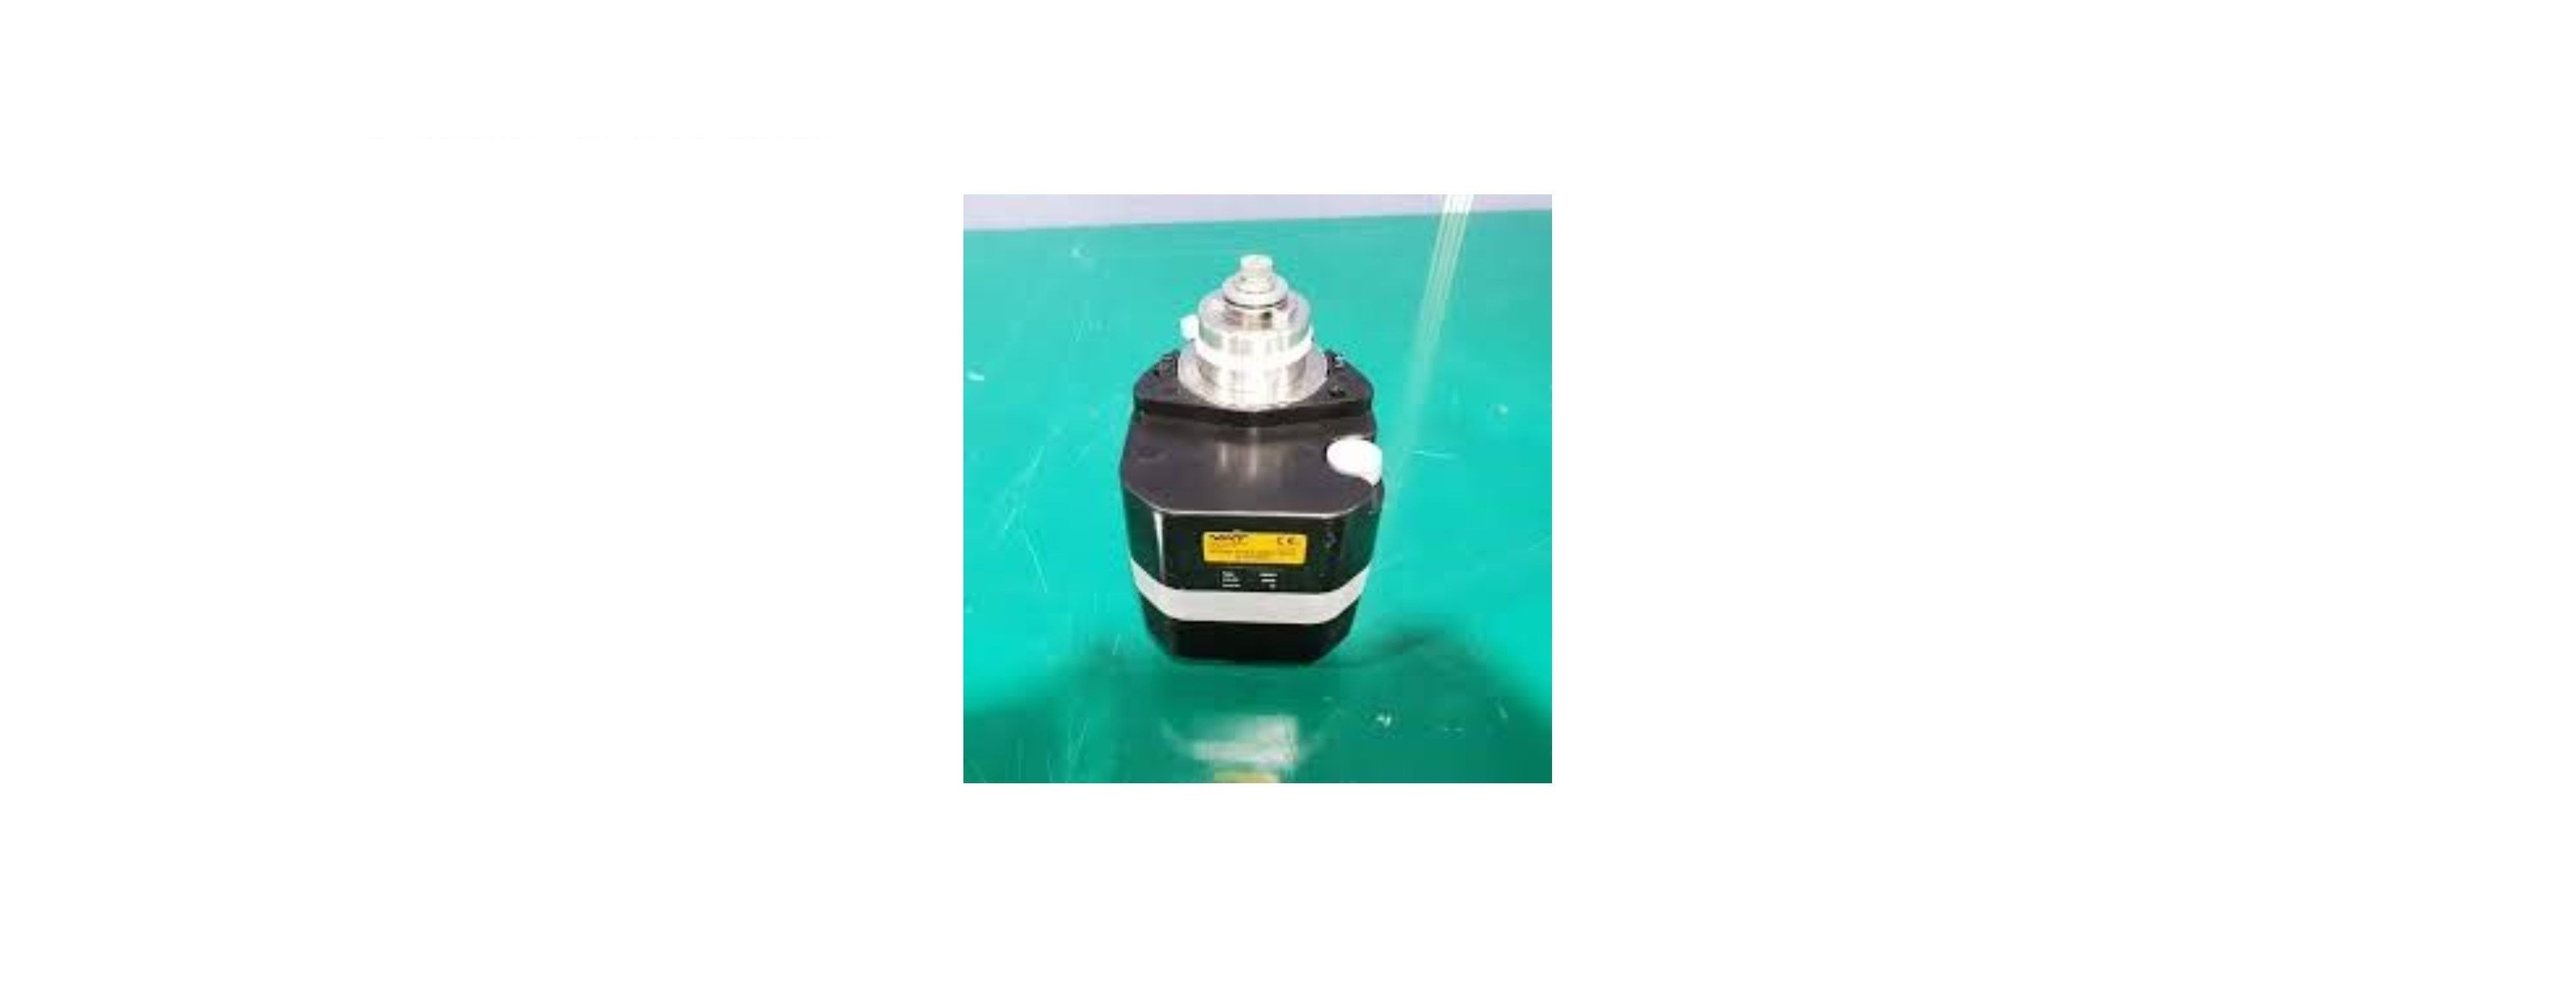
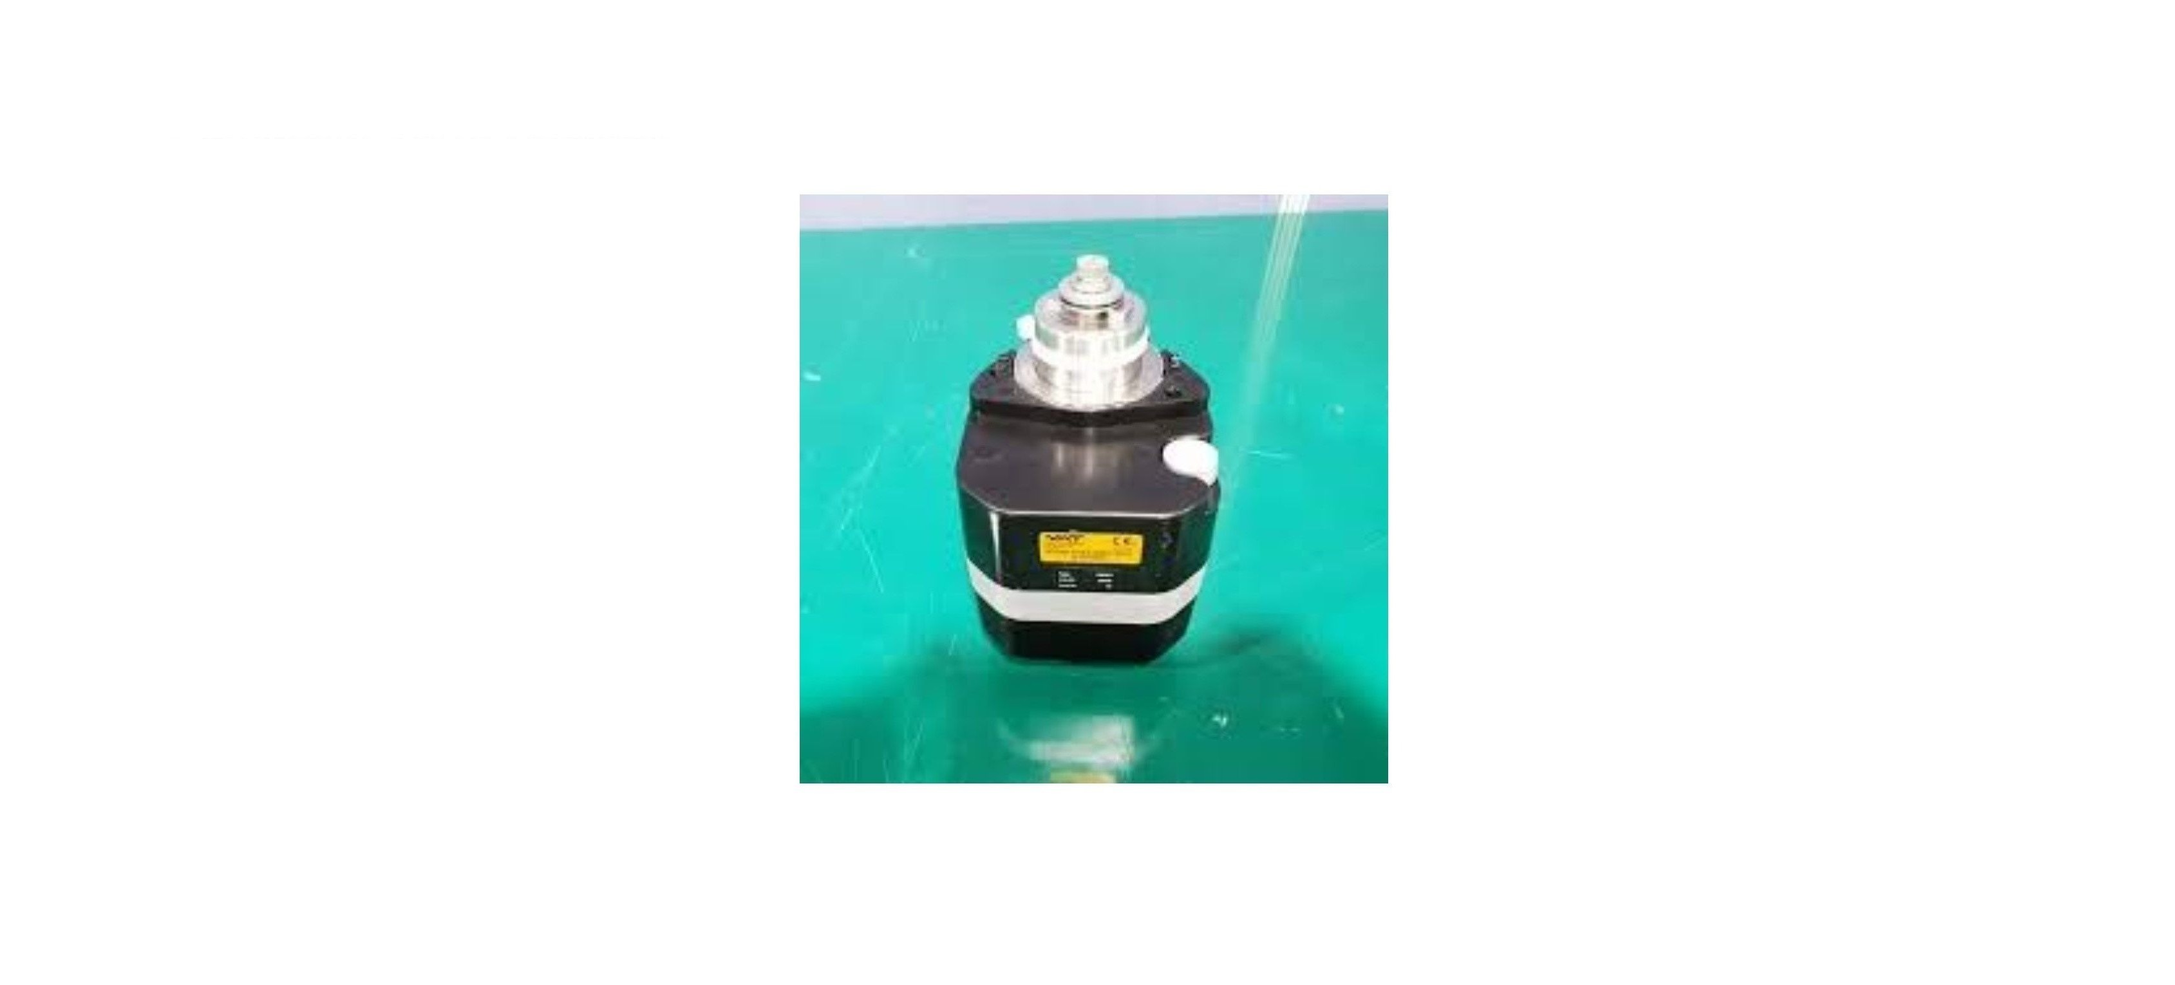
responsive navbar and pictures

Changed region(s): [[0.3419, 0.1843, 0.6528, 0.7987]]

diff --git a/repairBusiness.html b/repairBusiness.html
@@ -134,13 +134,13 @@
 			  <div class="parent-container2">
 				<li>
 					  <a class="abc" href="gate1.jpg" title="VAT 12148 GATE VALVE">Gate Valves</a>
-					  <a class="gate" href="gate2.jpg" title="VAT UHV GATE VALVE "></a>
-					  <a class="gate" href="gate3.jpg" title="VAT SERIES 108 UHV GATE VALVE"></a>
-					  <a class="gate" href="gate4_5.jpg" title="VAT SERIES 08 GATE VALVE"></a>
-					  <a class="gate" href="gate6.jpg" title="VAT SERIES 15028 GATE VALVE"></a>
-					  <a class="gate" href="gate7_8.jpg" title="VAT SERIES 64 GATE VALVE"></a>
-					  <a class="gate" href="gate9_10.jpg" title="VAT SERIES 65148 GATE VALVE"></a>
-					  <a class="gate" href="gate11.jpg" title="SMC L MOTION GATE VALVE"></a>
+					  <a class="abc" href="gate2.jpg" title="VAT UHV GATE VALVE "></a>
+					  <a class="abc" href="gate3.jpg" title="VAT SERIES 108 UHV GATE VALVE"></a>
+					  <a class="abc" href="gate4_5.jpg" title="VAT SERIES 08 GATE VALVE"></a>
+					  <a class="abc" href="gate6.jpg" title="VAT SERIES 15028 GATE VALVE"></a>
+					  <a class="abc" href="gate7_8.jpg" title="VAT SERIES 64 GATE VALVE"></a>
+					  <a class="abc" href="gate9_10.jpg" title="VAT SERIES 65148 GATE VALVE"></a>
+					  <a class="abc" href="gate11.jpg" title="SMC L MOTION GATE VALVE"></a>
 				</li>
 			  </div>
 
@@ -315,10 +315,8 @@
 
         function changeImgSize(){
             var img = this.content.find('img');
-            img.css('max-height', '800px');
-            img.css('min-height', '500px');
-            img.css('width', '900px');
-            img.css('max-width', '900px');
+            img.css('max-width', '100%');
+            img.css('height', 'auto');
         }
 
 	</script>

diff --git a/style.css b/style.css
@@ -1,3 +1,33 @@
+@media screen and (max-width: 800px) { 
+ 
+body { 
+font-size: 1.5em; 
+/*  
+  that will make fonts 150% larger, if you want smaller fonts on  mobile use something like .9em for 90% smaller 
+*/ 
+} 
+ 
+img { 
+  width: 100%; 
+  height: auto; 
+} 
+ 
+ 
+div { 
+  float: none; 
+  width: 100%; 
+  height: auto;  
+} 
+/*  
+  add specific classes and id's, section,  
+  article, aside or whatever other tags you may have made columns  
+  with. 
+  You may need to zero out or reduce your margin and padding too. 
+*/ 
+ 
+}
+
+
 /* navbar dropdown on hover */
 
 .dropdown-menu a:hover {background-color:#5089f2;}
@@ -21,12 +51,18 @@
         } 
         
 .dropdown-menu {
-    min-width: 1rem;
-    left: 50% !important;
-    transform: translateX(-50%) !important;
-    top: 75% !important;
+    min-width: 2rem;
+    top: 65%;
 }
 
+@media only screen and (min-width: 768px) {
+  .dropdown-menu {
+    min-width: 2rem;
+    top: 65%;
+    left: 50%;
+    transform: translateX(-50%);
+  }
+}
 .diamond-icon{
   color: #5089f2 ;
   border: 100;
@@ -344,3 +380,4 @@ hr.solid {
 .visionIcon, .missionIcon{
   text-indent:-20px;
 }
+

diff --git a/index.html b/index.html
@@ -2,7 +2,8 @@
 <html>
 <head>
 	<title>Blue Star System</title>
-	<meta name="viewport" content="width=device-width, initial-scale=1">
+	<meta name="viewport" content="width=device-width,initial-scale=1.0, maximum-scale=1.0,user-scalable=no"/>
+
 	<link rel="icon" href="tabLogo.jpg">
 
 	<link rel="stylesheet" href="https://maxcdn.bootstrapcdn.com/bootstrap/4.0.0-beta/css/bootstrap.min.css"></link>
@@ -15,9 +16,10 @@
 	<link rel="stylesheet" href="style.css">
     <link href="https://fonts.googleapis.com/css2?family=Nanum+Gothic&display=swap" rel="stylesheet">
 
+
 </head>
 <body>
-		<nav class=" navBarz navbar navbar-expand-lg navbar-light bg-white navbar-custom">
+		<nav class=" navBarz navbar navbar-expand-lg navbar-light bg-white navbar-custom" class="topnav" id="myTopnav">
 		  <a class="navbar-brand" href="index.html">
 		    <img src="bssPlogo.png" height="123px" width="225px"alt="bss" />
 		  </a>

diff --git a/pumpR.html b/pumpR.html
@@ -311,10 +311,9 @@
 
         function changeImgSize(){
             var img = this.content.find('img');
-            img.css('max-height', '800px');
-            img.css('min-height', '500px');
-            img.css('width', '900px');
-            img.css('max-width', '900px');
+            img.css('max-width', '100%');
+            img.css('min-width', '50%');
+            img.css('height', 'auto');
         }
 
 	</script>

diff --git a/heaterR.html b/heaterR.html
@@ -356,10 +356,8 @@
 
         function changeImgSize(){
             var img = this.content.find('img');
-            img.css('max-height', '880px');
-            img.css('min-height', '550px');
-            img.css('width', '800px');
-            img.css('max-width', '800px');
+            img.css('max-width', '100%');
+            img.css('height', 'auto');
         }
 
 

diff --git a/consumable.html b/consumable.html
@@ -247,10 +247,8 @@
 		});
 
         function changeImgSize(){
-            var img = this.content.find('img');
-            img.css('max-height', '800px');
-            img.css('width', '800px');
-            img.css('max-width', '800px');
+            img.css('max-width', '95%');
+            img.css('height', 'auto');
         }
 
 
